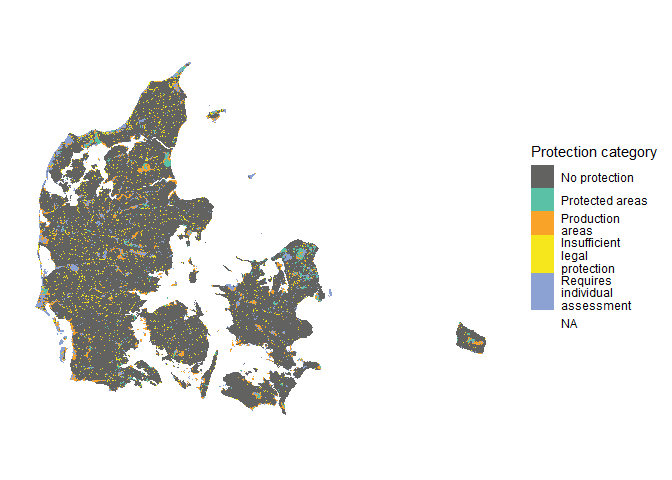
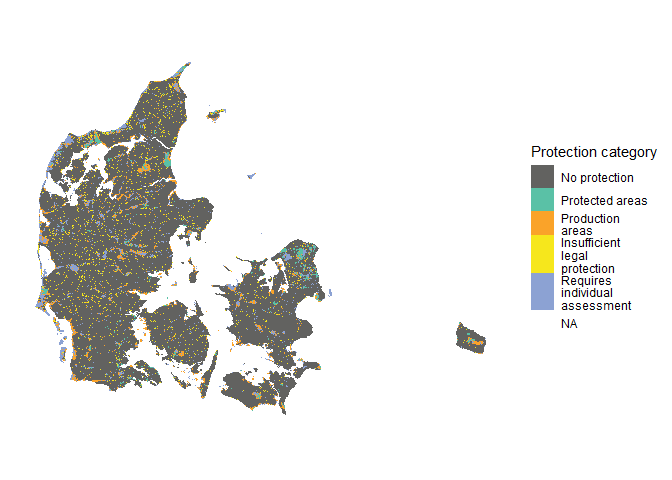
Nature national Parks ready, Private nature foundations next

diff --git a/README.md b/README.md
@@ -109,6 +109,10 @@ Here, `BuildUp` is a raster where
 0 = built-up (infrastructure, urban areas),  
 1 = other land.
 
+Pixels classified as built-up (`BuildUp == 0`) are removed from layers
+intended to represent contributing protected areas, and are flagged as
+compromised where relevant (e.g. in the production/pressure layers).
+
 This raster is prepared in the data pre-processing steps (not shown
 here).
 
@@ -143,12 +147,19 @@ Park + private nature foundation; 111 = all three schemes).
 ### Approved Nature National Parks
 
 We read the raster of approved Nature National Parks and convert it to a
-binary layer where 0 = not an approved Nature National Park, 1 =
-approved Nature National Park.
+binary layer where:
+
+0 = not an approved Nature National Park,  
+1 = approved Nature National Park.
+
+In the original raster, Nature National Parks are coded as 0 and all
+other pixels are `NA`; these are recoded to a simple presence/absence
+layer.
 
 ``` r
-NNP_approved <- as.numeric(terra::rast("Data/Rast_Nature_National_Parks_Croped.tif")) + 1
-NNP_approved <- terra::ifel(is.na(NNP_approved), 0, NNP_approved)
+NNP_approved <- terra::rast("Data/Rast_Nature_National_Parks_Croped.tif")
+
+NNP_approved <- terra::ifel(!is.na(NNP_approved), 1, 0)
 ```
 
 ### Private nature foundations
@@ -556,7 +567,7 @@ category_colors <- c(
 category_colors <- category_colors[cat_levels]
 
 ggplot() +
-  geom_spatraster(data = FinalLayer, maxcell = ncell(FinalLayer)/50) +
+  geom_spatraster(data = FinalLayer, maxcell = ncell(FinalLayer)/30) +
   scale_fill_manual(
     values   = category_colors,
     drop     = FALSE,
